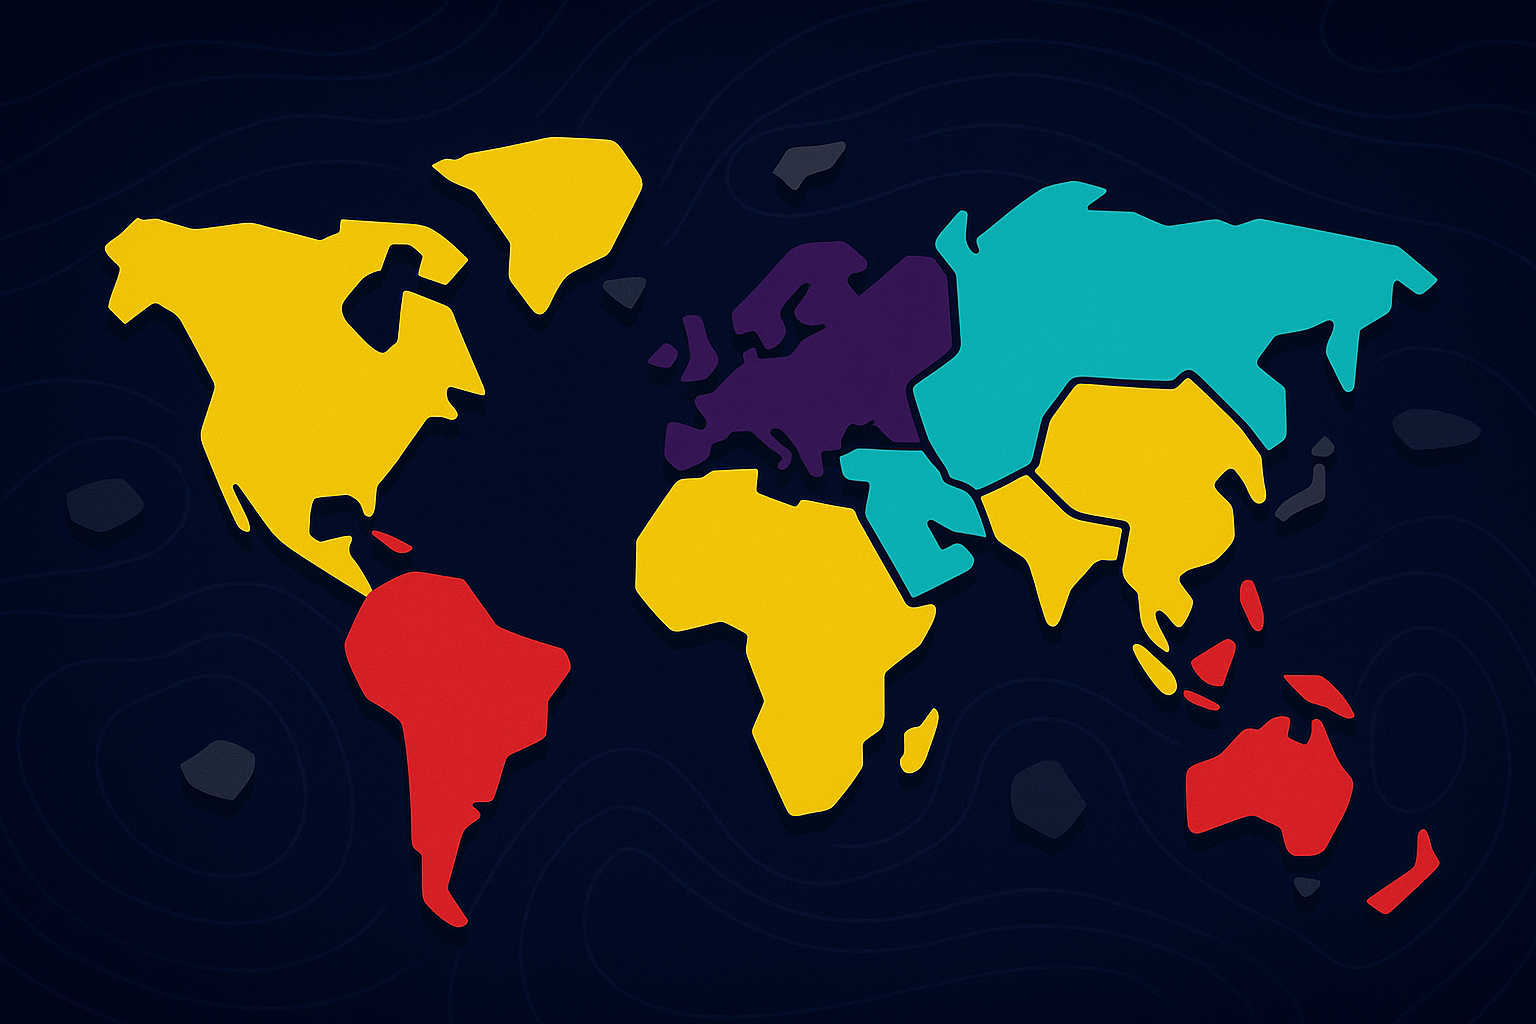
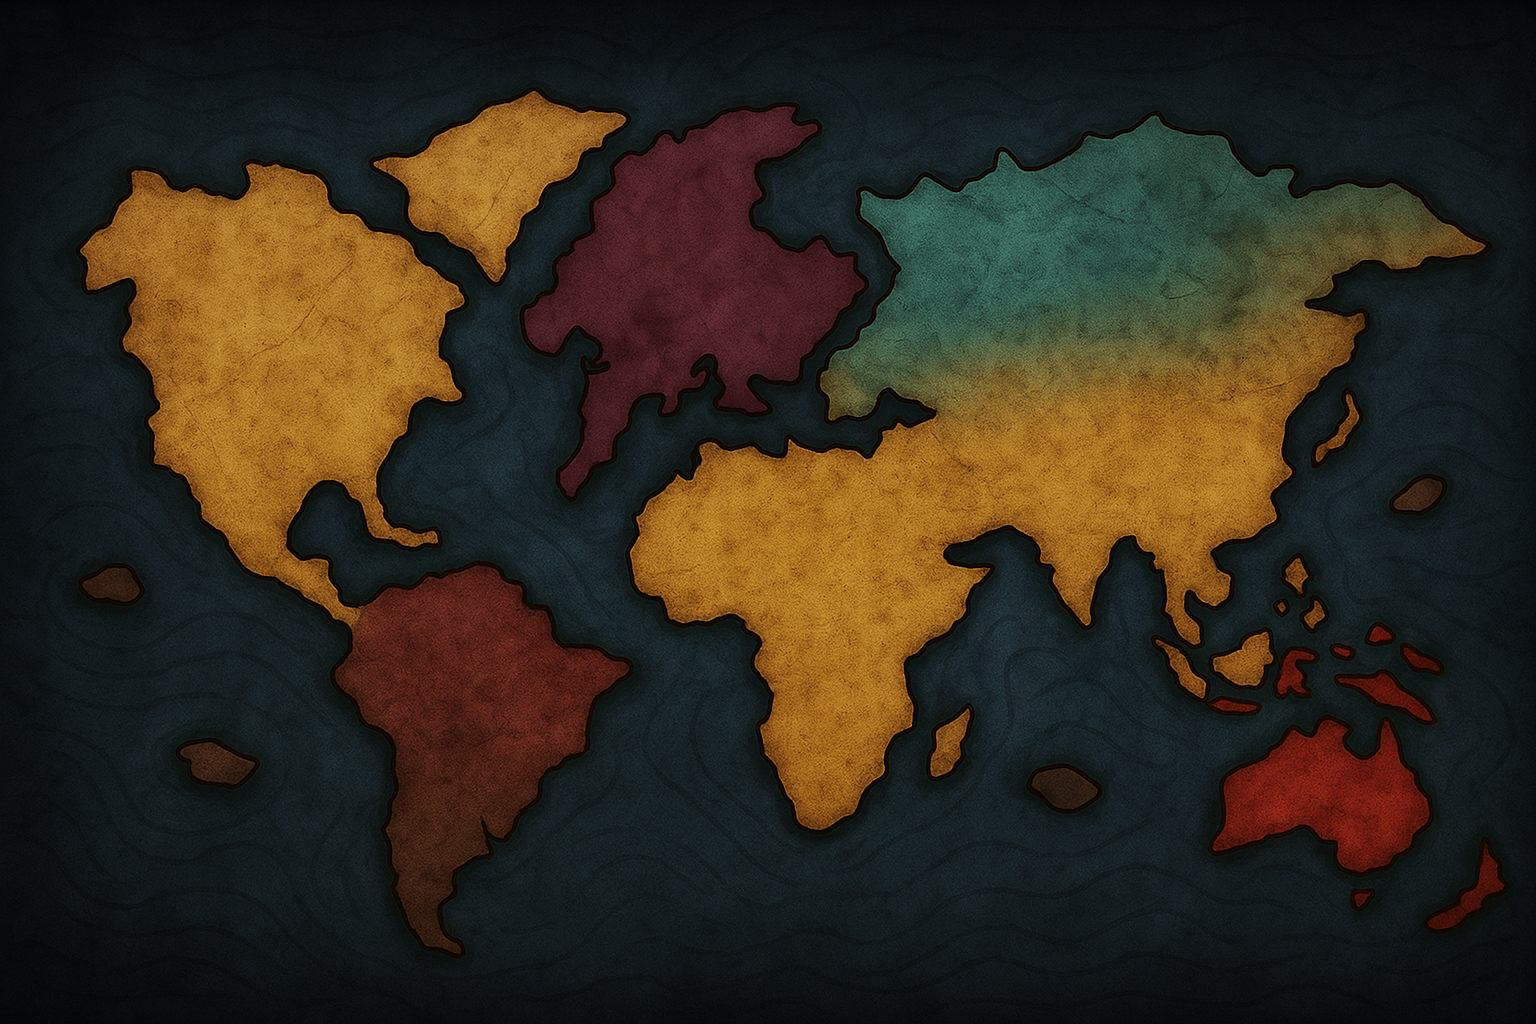
fix: subindo pro pedrao

diff --git a/public/game.js b/public/game.js
@@ -63,7 +63,7 @@ this.add.image(0, 0, 'mapa').setOrigin(0, 0).setDisplaySize(largura, altura);
   });
   mensagemTexto.setDepth(6);
 
-  botaoTurno = this.add.text(650, 550, 'Encerrar Turno', {
+  botaoTurno = this.add.text(0, 0, 'Encerrar Turno', {
     fontSize: '18px',
     fill: '#fff',
     backgroundColor: '#0077cc',
@@ -77,6 +77,23 @@ this.add.image(0, 0, 'mapa').setOrigin(0, 0).setDisplaySize(largura, altura);
       if (vitoria || derrota) return;
       socket.emit('passarTurno');
     });
+
+  posicionarBotao(this);
+
+  // Atualiza posição quando o tamanho da tela muda
+  this.scale.on('resize', () => {
+    posicionarBotao(this);
+  });
+
+
+function posicionarBotao(scene) {
+  const largura = scene.scale.width;
+  const altura = scene.scale.height;
+  botaoTurno.setPosition(
+    largura - botaoTurno.width - 20,
+    altura - botaoTurno.height - 20
+  );
+}
 
   overlay = this.add.rectangle(400, 300, 800, 600, 0x000000, 0.6);
   overlay.setVisible(false);
@@ -158,27 +175,75 @@ this.add.image(0, 0, 'mapa').setOrigin(0, 0).setDisplaySize(largura, altura);
 }
 
 function atualizarPaises(novosPaises, scene) {
-  const dadosGeograficos = {
-    "Brasil": {
-      pontos: [411,437,411,476,414,504,426,528,455,519,456,500,477,469,465,453],
-      textoX: 1140,
-      textoY: 630
-    },
-    "Argentina": {
-      pontos: [543,569, 553,585, 694,586, 685,576, 689,566, 696,585, 769,585, 778,576, 768,560, 560,560],
-      textoX: 620,
-      textoY: 575
-    },
-    "Estados Unidos": {
-      pontos: [536,342, 537,366, 554,381, 583,375, 591,392, 638,380, 636,399, 650,424, 636,399, 640,381, 593,385, 604,383, 607,345, 595,333, 597,314, 597,332, 624,343, 650,336, 643,316, 612,320, 594,303, 564,309],
-      textoX: 590,
-      textoY: 360
-    },
-    "Canadá": {
-      pontos: [1123,73, 1150,69, 1162,78, 1251,78, 1263,67, 1266,44, 1260,28, 1250,21, 1164,21, 1128,35],
-      textoX: 1180,
-      textoY: 55
-    }
+const coresDosDonos = {
+  Azul: 0x3366ff,
+  Vermelho: 0xff3333,
+  Amarelo: 0xffcc00,
+  Verde: 0x33cc33,
+  Roxo: 0x9933cc,
+  Preto: 0x222222
+};
+const dadosGeograficos = {
+  "Emberlyn": {
+    pontos: [402,396,370,405,359,437,368,460,396,459,440,426,434,413,419,406],
+    textoX: 190,
+    textoY: 170
+  },
+  "Ravenspire": {
+    pontos: [463,450,494,454,521,466,526,474,509,482,497,487,490,509,486,528,466,538,451,546,444,562,430,573,420,593,402,579,408,502,397,458,436,427,453,430,461,439],
+    textoX: 260,
+    textoY: 160
+  },
+  "Stonevale": {
+    pontos: [356,404,348,411,341,414,330,414,320,414,304,427,293,442,292,456,367,459,359,437,370,407,361,406],
+    textoX: 100,
+    textoY: 170
+  },
+  "Duskwatch": {
+    pontos: [293,454,395,458,401,468,402,482,404,489,409,498,409,509,407,526,405,545,404,563,403,573,322,582,326,569,328,559,332,546,330,535,332,523,326,518,315,514,308,509,299,495,288,488,279,479,279,468,292,460],
+    textoX: 125,
+    textoY: 295
+  },
+  "Stormhall": {
+    pontos: [325,581,323,600,332,615,330,626,334,635,343,652,356,665,383,671,386,662,369,656,367,640,378,627,377,613,397,602,408,599,401,572],
+    textoX: 180,
+    textoY: 305
+  },
+    "Redwyn": {
+    pontos: [111,194,194,141,176,136,162,131,149,133,139,127,129,121,118,119,110,119,114,132,106,138,96,147,93,156,83,161,75,168,67,176,73,181,72,198,77,207],
+    textoX: 180,
+    textoY: 305
+  },
+    "Stormfen": {
+    pontos: [111,194,194,141,206,132,207,122,207,114,219,115,233,116,248,119,265,125,273,132,274,142,283,151,302,151,307,162],
+    textoX: 180,
+    textoY: 305
+  },
+    "Highmoor": {
+    pontos: [305,165,252,223,345,279,358,279,373,279,384,279,378,268,373,257,364,253,366,236,370,223,386,215,380,203,370,198,360,189,349,182,336,168,322,163],
+    textoX: 180,
+    textoY: 305
+  },
+    "Cragstone": {
+    pontos: [127,264,252,223,306,163,111,194,109,218,110,228,102,237,108,246],
+    textoX: 180,
+    textoY: 305
+  },
+    "Hollowspire": {
+    pontos: [253,222,160,340,152,335,145,328,133,324,128,311,128,301,125,295,134,287,129,279,128,266],
+    textoX: 180,
+    textoY: 305
+  },
+    "Westreach": {
+    pontos: [160,340,192,303,224,258,253,225,284,243,302,255,345,281,341,300,331,309,316,330,315,348,322,363,328,372,351,373,364,374,366,382,354,382,342,382,332,380,316,378,307,371,305,356,297,349,288,340,275,338,262,339],
+    textoX: 180,
+    textoY: 305
+  },
+    "Barrowfell": {
+    pontos: [161,343,167,359,176,370,192,378,195,391,213,406,231,405,247,415,261,421,276,428,281,434,292,442,302,428,289,425,282,417,275,406,273,393,255,393,247,392,239,385,241,373,250,357,265,339,160,340],
+    textoX: 180,
+    textoY: 305
+  }
   };
 
   if (paises.length === 0) {
@@ -191,18 +256,44 @@ function atualizarPaises(novosPaises, scene) {
         return obj;
       }
 
-      obj.polygon = scene.add.polygon(0, 0, geo.pontos, 0xffffff, 0.1);
-      obj.polygon.setOrigin(0, 0);
+      const pontos = geo.pontos;
+      let somaX = 0;
+      let somaY = 0;
+      for (let i = 0; i < pontos.length; i += 2) {
+        somaX += pontos[i];
+        somaY += pontos[i + 1];
+      }
+      const centroX = somaX / (pontos.length / 2);
+      const centroY = somaY / (pontos.length / 2);
+
+  // Encontrar minX e minY
+let minX = Infinity;
+let minY = Infinity;
+for (let i = 0; i < pontos.length; i += 2) {
+  if (pontos[i] < minX) minX = pontos[i];
+  if (pontos[i + 1] < minY) minY = pontos[i + 1];
+}
+
+// Ajustar pontos relativos ao canto superior esquerdo (minX, minY)
+const pontosRelativos = [];
+for (let i = 0; i < pontos.length; i += 2) {
+  pontosRelativos.push(pontos[i] - minX);
+  pontosRelativos.push(pontos[i + 1] - minY);
+}
+
+// Criar o polígono na posição (minX, minY)
+obj.polygon = scene.add.polygon(minX, minY, pontosRelativos, 0xffffff, 0.1);
+obj.polygon.setOrigin(0, 0); // origem no canto superior esquerdo
       obj.polygon.setInteractive({ useHandCursor: true });
 
-      obj.text = scene.add.text(geo.textoX, geo.textoY, getTextoPais(pais), {
+    obj.text = scene.add.text(centroX, centroY, getTextoPais(pais), {
         fontSize: '14px',
         fill: '#fff',
         align: 'center',
         wordWrap: { width: 80 },
         backgroundColor: '#00000033',
         padding: { x: 4, y: 2 }
-      });
+      }).setOrigin(0.5);
 
       obj.polygon.on('pointerdown', () => {
         if (vitoria || derrota) return;
@@ -221,7 +312,7 @@ function atualizarPaises(novosPaises, scene) {
           obj.polygon.setFillStyle(0xffff00, 0.3);
           mostrarMensagem(`País selecionado: ${obj.nome}`);
         } else if (selecionado === obj) {
-          obj.polygon.setFillStyle(0xffffff, 0.1);
+          obj.polygon.setFillStyle(coresDosDonos[obj.dono], 1); // usa alpha baixo se quiser estilo antigo
           selecionado = null;
           mostrarMensagem('Seleção cancelada');
         } else {
@@ -248,11 +339,21 @@ function atualizarPaises(novosPaises, scene) {
 
 
   for (let i = 0; i < paises.length; i++) {
+const coresDosDonos = {
+  Azul: 0x3366ff,
+  Vermelho: 0xff3333,
+  Amarelo: 0xffcc00,
+  Verde: 0x33cc33,
+  Roxo: 0x9933cc,
+  Preto: 0x222222
+};
+
     paises[i].dono = novosPaises[i].dono;
     paises[i].tropas = novosPaises[i].tropas;
     paises[i].vizinhos = novosPaises[i].vizinhos;
     paises[i].text.setText(getTextoPais(paises[i]));
-    paises[i].circle.setFillStyle(0xffffff, 0.1);
+    paises[i].polygon.setFillStyle(coresDosDonos[paises[i].dono] , 0.7);
+    paises[i].polygon.setStrokeStyle(4, 0x000000, 1);
   }
   selecionado = null;
 }
@@ -271,7 +372,7 @@ function atualizarHUD() {
 }
 
 function limparSelecao() {
-  paises.forEach(p => p.circle.setFillStyle(0xffffff, 0.1));
+  paises.forEach(p => p.polygon.setFillStyle(0xffffff, 0.1));
   selecionado = null;
 }
 
@@ -286,7 +387,7 @@ function mostrarMensagem(texto) {
 function bloquearJogo(mensagem) {
   botaoTurno.disableInteractive();
   botaoTurno.setStyle({ backgroundColor: '#555' });
-  paises.forEach(pais => pais.circle.disableInteractive());
+  paises.forEach(pais => pais.polygon.disableInteractive());
   overlay.setVisible(true);
   textoVitoriaGrande.setText(mensagem);
   textoVitoriaGrande.setVisible(true);
@@ -296,7 +397,7 @@ function bloquearJogo(mensagem) {
 function perdeuJogo(mensagem) {
   botaoTurno.disableInteractive();
   botaoTurno.setStyle({ backgroundColor: '#555' });
-  paises.forEach(pais => pais.circle.disableInteractive());
+  paises.forEach(pais => pais.polygon.disableInteractive());
   overlay.setVisible(true);
   textoVitoriaGrande.setText(mensagem);
   textoVitoriaGrande.setVisible(true);
@@ -306,7 +407,7 @@ function perdeuJogo(mensagem) {
 function desbloquearJogo() {
   botaoTurno.setInteractive({ useHandCursor: true });
   botaoTurno.setStyle({ backgroundColor: '#0077cc' });
-  paises.forEach(pais => pais.circle.setInteractive({ useHandCursor: true }));
+  paises.forEach(pais => pais.polygon.setInteractive({ useHandCursor: true }));
   overlay.setVisible(false);
   textoVitoriaGrande.setVisible(false);
   botaoReiniciar.setVisible(false);

diff --git a/server.js b/server.js
@@ -9,7 +9,10 @@ const io = socketIo(server);
 const jogadores = [
   { nome: 'Azul', ativo: true, socketId: null },
   { nome: 'Vermelho', ativo: true, socketId: null },
-  { nome: 'Verde', ativo: true, socketId: null }
+  { nome: 'Verde', ativo: true, socketId: null },
+  { nome: 'Amarelo', ativo: true, socketId: null },
+  { nome: 'Preto', ativo: true, socketId: null },
+  { nome: 'Roxo', ativo: true, socketId: null }
 ];
 
 let indiceTurno = 0;
@@ -19,10 +22,18 @@ let vitoria = false;
 let derrota = false;
 
 let paises = [
-  { nome: 'Brasil', x: 200, y: 200, dono: 'Amarelo', tropas: 7, vizinhos: ['País B'] },
-  { nome: 'Argentina', x: 700, y: 250, dono: 'Roxo', tropas: 7, vizinhos: ['País A', 'País C'] },
-  { nome: 'Estados Unidos', x: 350, y: 500, dono: 'Vermelho', tropas: 7, vizinhos: ['País B'] },
-  { nome: 'Canadá', x: 970, y: 200, dono: 'Azul', tropas: 7, vizinhos: ['País B'] }
+  { nome: 'Emberlyn', x: 190, y: 170, dono: 'Azul', tropas: 5, vizinhos: ['Stonevale', 'Ravenspire', 'Duskwatch'] },
+  { nome: 'Ravenspire', x: 260, y: 160, dono: 'Vermelho', tropas: 5, vizinhos: ['Emberlyn','Duskwatch', 'Stormhall'] },
+  { nome: 'Stonevale', x: 100, y: 170, dono: 'Amarelo', tropas: 5, vizinhos: ['Valdoria', 'Cindervale'] },
+  { nome: 'Duskwatch', x: 125, y: 295, dono: 'Verde', tropas: 5, vizinhos: ['Stonevale', 'Ravenspire', 'Emberlyn', 'Stormhall'] },
+  { nome: 'Stormhall', x: 180, y: 305, dono: 'Azul', tropas: 5, vizinhos: ['Cindervale', 'Ashbourne'] },
+  { nome: 'Redwyn', x: 190, y: 170, dono: 'Preto', tropas: 5, vizinhos: ['Stonevale', 'Ravenspire', 'Duskwatch'] },
+  { nome: 'Stormfen', x: 260, y: 160, dono: 'Roxo', tropas: 5, vizinhos: ['Valdoria', 'Ashbourne'] },
+  { nome: 'Highmoor', x: 100, y: 170, dono: 'Amarelo', tropas: 5, vizinhos: ['Valdoria', 'Cindervale'] },
+  { nome: 'Cragstone', x: 125, y: 295, dono: 'Verde', tropas: 5, vizinhos: ['Northgard', 'Ironcliff'] },
+  { nome: 'Hollowspire', x: 180, y: 305, dono: 'Preto', tropas: 5, vizinhos: ['Cindervale', 'Ashbourne'] },
+  { nome: 'Westreach', x: 125, y: 295, dono: 'Roxo', tropas: 5, vizinhos: ['Northgard', 'Ironcliff'] },
+  { nome: 'Barrowfell', x: 180, y: 305, dono: 'Azul', tropas: 5, vizinhos: ['Cindervale', 'Ashbourne'] }
 ];
 
 let tropasReforco = calcularReforco(turno);
